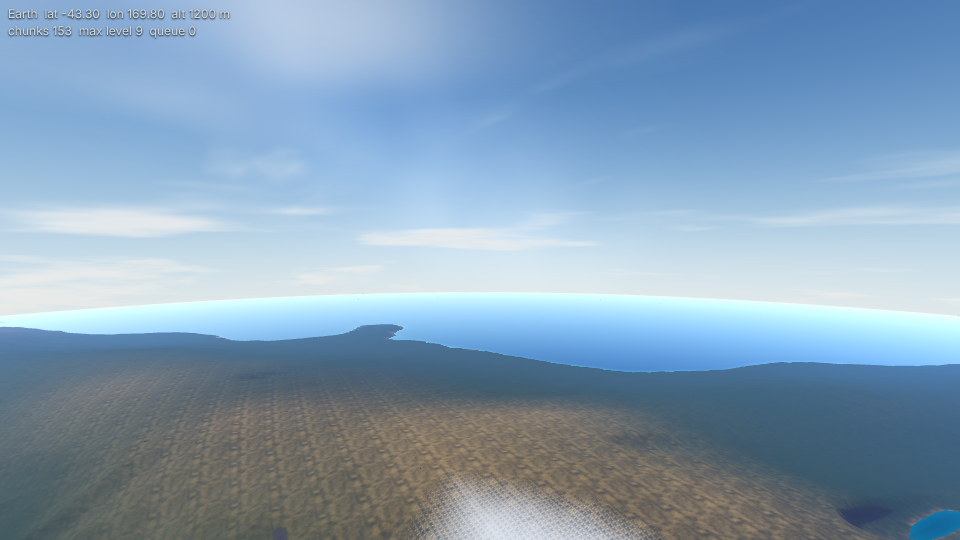
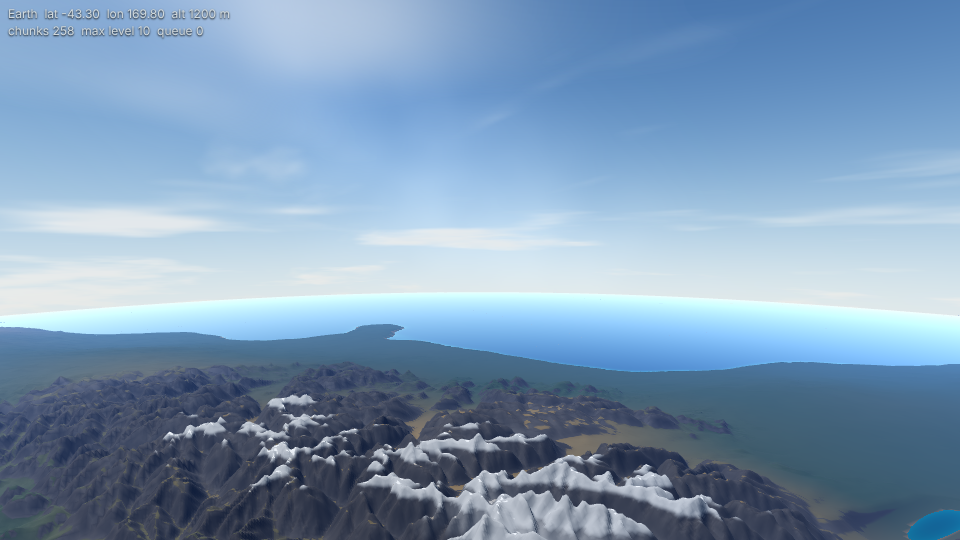
W5: Earth spec measures terrain coverage, not land colour
With the Southern Alps grid the ground view shows grey rock and snow under
blue haze, which the colour heuristic counted as sky (land 2%). The lab's
pixel probe now also renders the local scene alone in flat white and reports
the covered share of the frame; the spec asserts it (ground view 44%, 2.2 R
view 51%, 4.5 R proxy view 0%). The real frame is drawn again in the same
task, so screenshots are unaffected. Evidence refreshed.

Claude-Session: https://claude.ai/code/session_01R5Bri4MB7rpCVatQcDYx2k

Changed region(s): [[0.0, 0.6815, 0.9062, 1.0], [0.0625, 0.0296, 0.2188, 0.0889]]

diff --git a/meridian/e2e/journey/worlds-lab.ts b/meridian/e2e/journey/worlds-lab.ts
@@ -13,6 +13,7 @@ import {
   Frustum,
   HemisphereLight,
   Matrix4,
+  MeshBasicMaterial,
   PerspectiveCamera,
   Quaternion,
   Scene,
@@ -39,9 +40,13 @@ interface LabState {
   frames: number;
   errors: string[];
   stats: Record<string, number>;
-  /** Set true to read back the next frame: mean/std of luminance and the share of sea-blue and land pixels. */
+  /**
+   * Set true to read back the next frame: mean/std of luminance, the share of
+   * sea-blue and land-coloured pixels, and `surface`, the share of the frame
+   * covered by the local terrain and liquid meshes (a flat-colour pass).
+   */
   requestPixels: boolean;
-  pixels: { mean: number; std: number; blue: number; land: number } | null;
+  pixels: { mean: number; std: number; blue: number; land: number; surface: number } | null;
 }
 
 const lab: LabState = { ready: false, settled: false, frames: 0, errors: [], stats: {}, requestPixels: false, pixels: null };
@@ -150,6 +155,7 @@ async function main(): Promise<void> {
   scene.add(terrain.root);
   const space = new Space();
   bgScene.add(space.group);
+  const coverageMaterial = new MeshBasicMaterial({ color: 0xffffff });
   const sunDef = def.system === 'sol' ? BODIES.sun : null;
   const clouds = new Clouds();
   clouds.setBody(def, 1);
@@ -207,14 +213,17 @@ async function main(): Promise<void> {
     clouds.update(now / 1000, planetLocal, new Color(0.3, 0.4, 0.5));
     updateSkyMesh(sky, camera);
     renderer.autoClear = false;
-    renderer.setClearColor(0x000000, 1);
-    renderer.clear(true, true, false);
-    if (layers.includes('bg')) renderer.render(bgScene, bgCamera);
-    renderer.clearDepth();
-    if (layers.includes('sky')) renderer.render(skyScene, skyCamera);
-    renderer.clearDepth();
-    clouds.group.visible = layers.includes('clouds');
-    if (layers.includes('scene')) renderer.render(scene, camera);
+    const draw = () => {
+      renderer.setClearColor(0x000000, 1);
+      renderer.clear(true, true, false);
+      if (layers.includes('bg')) renderer.render(bgScene, bgCamera);
+      renderer.clearDepth();
+      if (layers.includes('sky')) renderer.render(skyScene, skyCamera);
+      renderer.clearDepth();
+      clouds.group.visible = layers.includes('clouds');
+      if (layers.includes('scene')) renderer.render(scene, camera);
+    };
+    draw();
     if (lab.requestPixels) {
       // Read back in the same task as the draw (the buffer is not preserved afterwards).
       const gl = renderer.getContext();
@@ -222,6 +231,17 @@ async function main(): Promise<void> {
       const h = gl.drawingBufferHeight;
       const px = new Uint8Array(w * h * 4);
       gl.readPixels(0, 0, w, h, gl.RGBA, gl.UNSIGNED_BYTE, px);
+      // Surface coverage: the local scene alone, flat white on black (clouds hidden), then the real frame again.
+      const cov = new Uint8Array(w * h * 4);
+      renderer.setClearColor(0x000000, 1);
+      renderer.clear(true, true, false);
+      clouds.group.visible = false;
+      scene.overrideMaterial = coverageMaterial;
+      renderer.render(scene, camera);
+      scene.overrideMaterial = null;
+      gl.readPixels(0, 0, w, h, gl.RGBA, gl.UNSIGNED_BYTE, cov);
+      draw();
+      let covered = 0;
       let sum = 0;
       let sum2 = 0;
       let blue = 0;
@@ -234,9 +254,10 @@ async function main(): Promise<void> {
         sum2 += y * y;
         if (b > r + 12 && b > g) blue++;
         else if (y > 25 && (g >= b || r >= b)) land++;
+        if (cov[i * 4] > 127) covered++;
       }
       const mean = sum / n;
-      lab.pixels = { mean, std: Math.sqrt(Math.max(0, sum2 / n - mean * mean)), blue: blue / n, land: land / n };
+      lab.pixels = { mean, std: Math.sqrt(Math.max(0, sum2 / n - mean * mean)), blue: blue / n, land: land / n, surface: covered / n };
       lab.requestPixels = false;
     }
     lab.frames++;

diff --git a/meridian/e2e/journey/worlds-earth.spec.ts b/meridian/e2e/journey/worlds-earth.spec.ts
@@ -6,9 +6,9 @@ import { collectErrors } from '../helpers';
 // W4 browser check: the data-backed Earth renders through the game's own
 // terrain, proxy, atmosphere and sky modules (worlds-lab.html on a Vite dev
 // server started here, because Earth is not yet on the travel route). Views:
-// ground level over New Zealand's Southern Alps (Tasman coast to Aoraki), the
-// coarse terrain from 2.2 radii, and the distant proxy from 4.5 radii.
-// Screenshots go to evidence/worlds-earth-*.png.
+// ground level over New Zealand's Southern Alps (Tasman coast to Aoraki, from
+// the regional 10" grid), the coarse terrain from 2.2 radii, and the distant
+// proxy from 4.5 radii. Screenshots go to evidence/worlds-earth-*.png.
 
 test.use({ viewport: { width: 960, height: 540 } });
 
@@ -33,7 +33,7 @@ interface Lab {
   frames: number;
   errors: string[];
   stats: Record<string, number>;
-  pixels: { mean: number; std: number; blue: number; land: number } | null;
+  pixels: { mean: number; std: number; blue: number; land: number; surface: number } | null;
 }
 
 async function view(page: Page, query: string, shot: string, settleMs = 900_000): Promise<Lab> {
@@ -59,7 +59,7 @@ test('Earth: ground, coarse terrain and proxy views render from the data', async
   expect(ground.stats.maxLevel).toBeGreaterThanOrEqual(8); // ~1 km chunks at 1.2 km altitude
   expect(ground.stats.errors).toBe(0);
   expect(ground.pixels!.std).toBeGreaterThan(8); // not a flat fill
-  expect(ground.pixels!.land).toBeGreaterThan(0.05); // terrain on screen
+  expect(ground.pixels!.surface).toBeGreaterThan(0.25); // terrain covers the lower part of the frame
 
   // 2. Coarse terrain from 2.2 radii over the Tasman Sea (Australia and New Zealand in daylight).
   const coarse = await view(page, 'body=earth&lat=-35&lon=160&orbit=2.2&fov=50', 'worlds-earth-orbit-terrain.png');
@@ -67,12 +67,14 @@ test('Earth: ground, coarse terrain and proxy views render from the data', async
   expect(coarse.stats.rendered).toBeGreaterThan(5);
   expect(coarse.pixels!.blue).toBeGreaterThan(0.02); // ocean visible
   expect(coarse.pixels!.land).toBeGreaterThan(0.005); // continents visible
+  expect(coarse.pixels!.surface).toBeGreaterThan(0.3); // the globe is local terrain at 2.2 radii
 
   // 3. Distant proxy from 4.5 radii (terrain released, proxy only).
   const proxy = await view(page, 'body=earth&lat=-35&lon=160&orbit=4.5&fov=50', 'worlds-earth-orbit-proxy.png');
   expect(proxy.errors).toEqual([]);
   expect(proxy.stats.proxies).toBe(1);
   expect(proxy.pixels!.mean).toBeGreaterThan(3);
+  expect(proxy.pixels!.surface).toBe(0); // terrain released: only the proxy draws the planet
 
   expect(errors).toEqual([]);
 });
